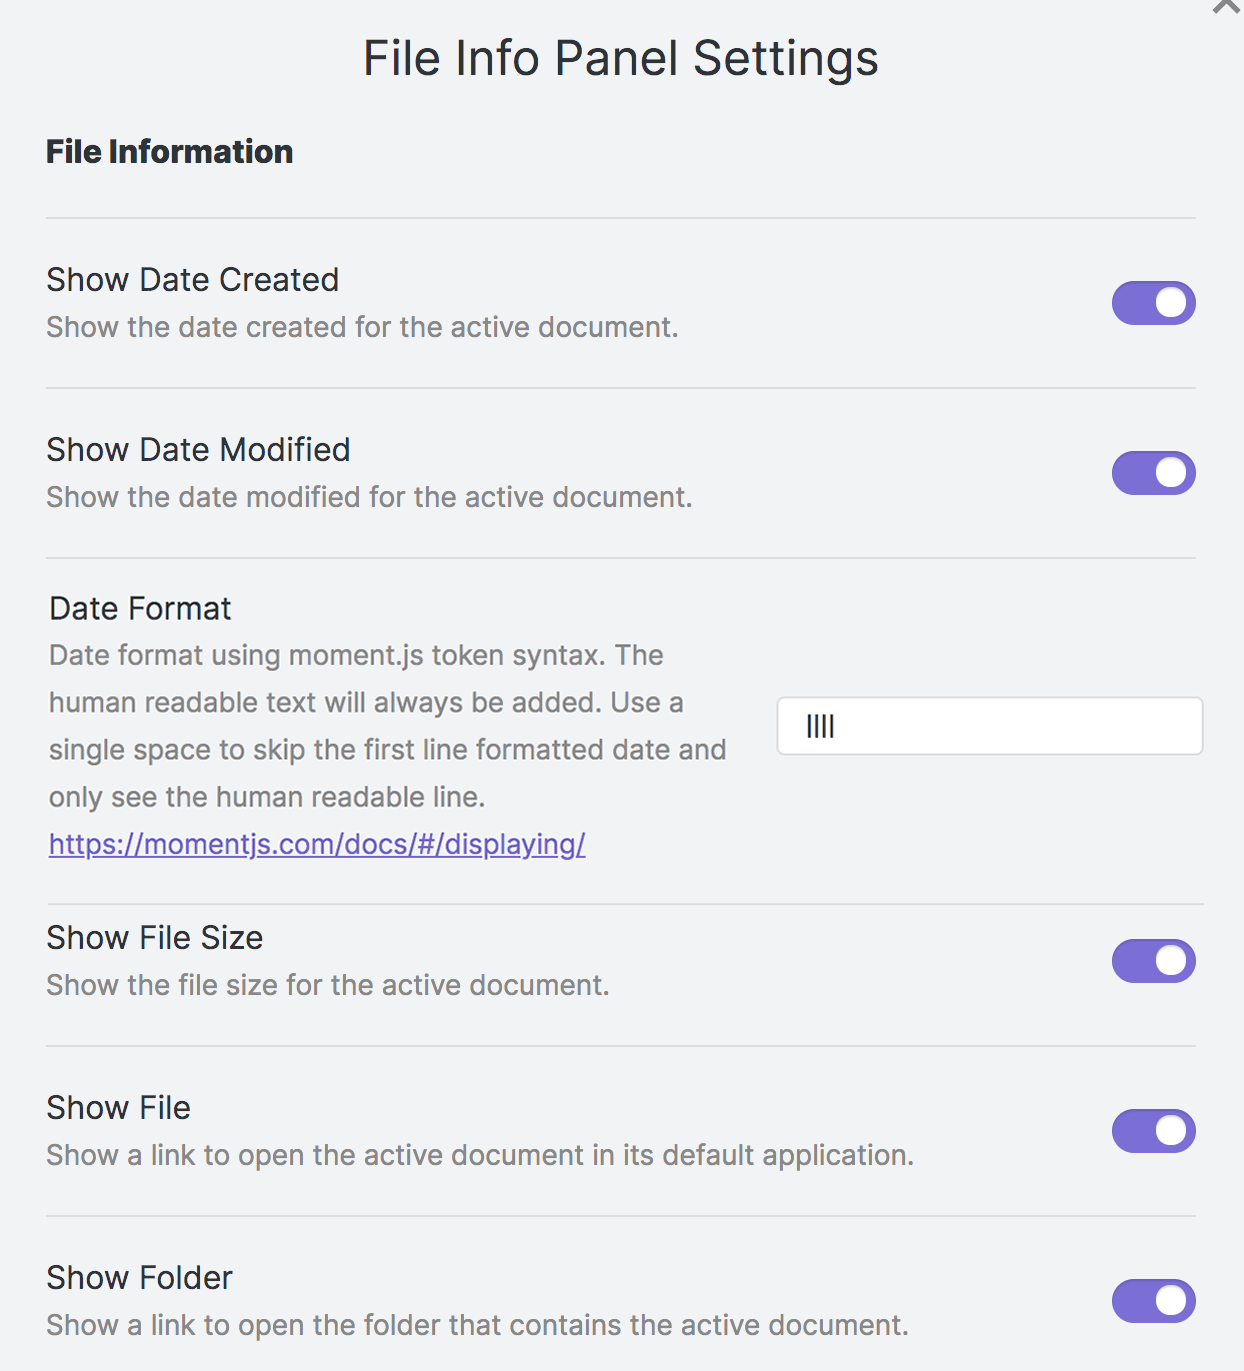
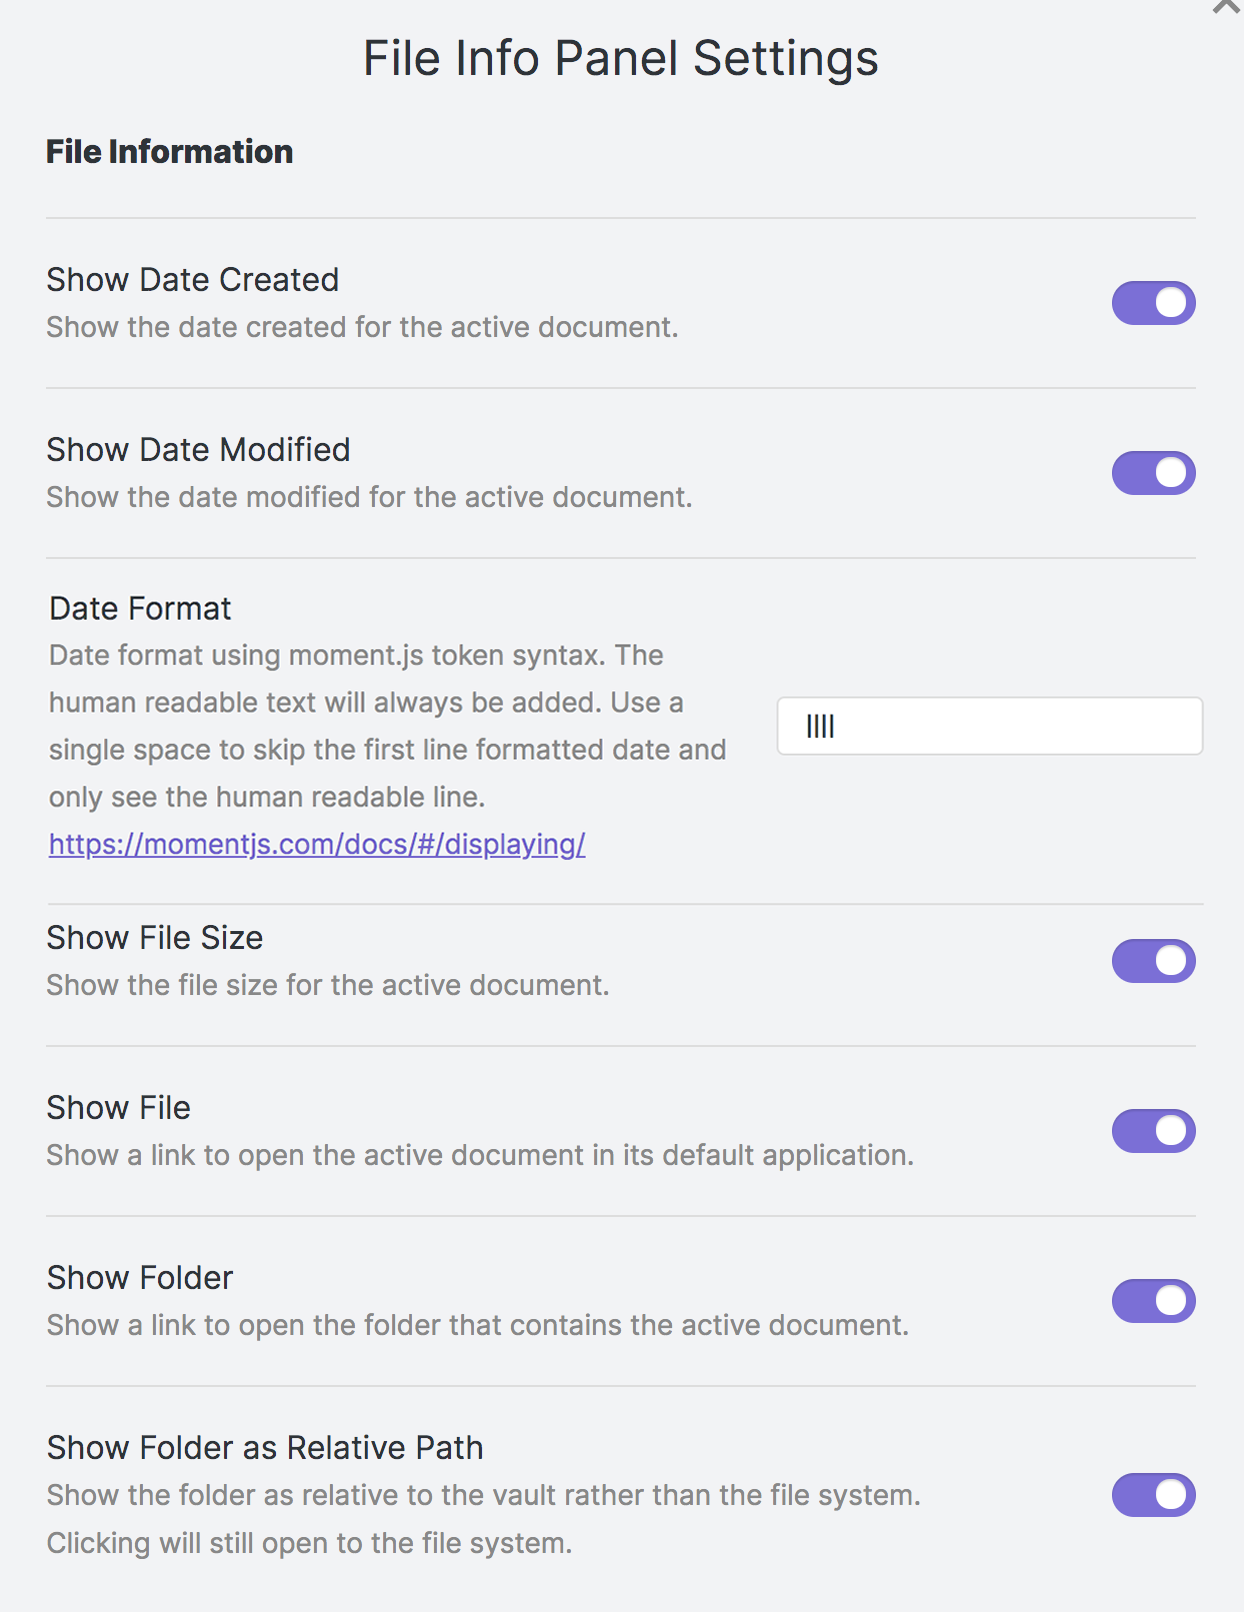
Possible Android Fix, Relative Path Display
Issue #2 (android bug) and the last part of Issue #3 (display relative path option).

diff --git a/main.ts b/main.ts
@@ -7,16 +7,20 @@ Mac OS X 10.12.6 Obsidian  v0.12.19 (T.L. Ford)
 Windows 11, yes, (P.Rose#7066)
 Android, fails (P.Rose#7066)
 
+/* Notes for dev
+https://github.com/TfTHacker/obsidian42-brat/blob/main/help/developers.md
+Versioning: https://semver.org
+*/
+
 /* T. L. Ford */
 /* https://www.Cattail.Nu */
 
 import { App, ItemView, WorkspaceLeaf, MetadataCache, Plugin, MarkdownView, PluginSettingTab, Setting, moment } from 'obsidian';
-
 import { tlfPluginSettingTab } from "./tlfPluginSettingTab";
-
 import { VIEW_TYPE, INTERVAL_MINUTES } from "./tlfConstants";
-
 import { getCharacterCount, getSentenceCount, getWordCount, getParagraphCount, getWordFrequencyArray, cleanComments } from "./stats";
+import type CodeMirror from "codemirror";
+import * as path from 'path';
 
 
 import {
@@ -35,11 +39,11 @@ export default class tlfFileInfo extends Plugin {
 	settings: tlfPluginSettingTab;
 
 	processing = 0;
-	intervalTimer = null;
+	// intervalTimer = null;
 
 	async onload() {
 		await this.loadSettings();
-		// console.clear();
+//		console.clear();
 
 		var a = this.app;
 		var p = this;
@@ -84,20 +88,29 @@ export default class tlfFileInfo extends Plugin {
 			this.requeryStats();
 		}));
 
-/*
-    this.registerCodeMirror((cm: CodeMirror.Editor) => {
-      cm.on("cursorActivity", (cm: CodeMirror.Editor) =>
-        this.barManager.cursorActivity(cm)
-      );
-    });
-*/
+		this.registerCodeMirror((cm: CodeMirror.Editor) => {
+			cm.on("cursorActivity", (cm: CodeMirror.Editor) => {
+				this.requeryStats();
+			//	console.log(cm.getValue());
+			}
+			);
+		});
 
 
 	} // END async onload() {
 
 
 	async requeryStats() {
+
 		var file = this.app.workspace.getActiveFile();
+		var data = "";
+		var isText = 0;
+
+		if ( file && (file.extension === "md" || file.extension === "txt") ) {
+			isText = 1;
+			//data = await file.vault.cachedRead(file);
+			data = await this.app.vault.cachedRead(file);
+		}
 
 		this.app.workspace.getLeavesOfType(VIEW_TYPE).forEach(async (leaf) => {
 			if (leaf.view instanceof tlfItemView) {
@@ -132,12 +145,8 @@ export default class tlfFileInfo extends Plugin {
 					var selectedSentences = 0;
 					var selectedParagraphs = 0;
 					var currentWordFrequency = [];
-					var isText = 0;
 
 					if (file.extension === "md" || file.extension === "txt") {
-						isText = 1;
-						var data = "";
-						data = await file.vault.cachedRead(file);
 
 						if ( data ) {
 							if ( this.settings.showCurrentWords ) { currentWords = getWordCount(data); }
@@ -153,6 +162,7 @@ export default class tlfFileInfo extends Plugin {
 							this.settings.showSelectedSentences ||
 							this.settings.showSelectedParagraphs
 						) {
+/*
 							if ( ! this.intervalTimer ) {
 								this.intervalTimer = window.setInterval(() => {
 									this.requeryStats();
@@ -160,6 +170,7 @@ export default class tlfFileInfo extends Plugin {
 								, INTERVAL_MINUTES * 60 * 1000);
 								this.registerInterval(this.interval);
 							}
+*/
 							var selectedData = "";
 
 							const v = this.app.workspace.getActiveViewOfType(MarkdownView);
@@ -176,14 +187,14 @@ export default class tlfFileInfo extends Plugin {
 									}
 								}
 							}
-						} else {
+						} /* else {
 							// they have changed settings to turn these off
 							// so kill it.
 							if ( this.intervalTimer ) {
 								window.clearInterval(this.intervalTimer);
 								this.intervalTimer = null;
-							}						
-						}
+							}					
+						} */
 						
 
 					}
@@ -202,9 +213,16 @@ export default class tlfFileInfo extends Plugin {
 					leaf.view.strModified = mString;
 					leaf.view.strModifiedFromNow = mDate.fromNow();
 
-					leaf.view.strFile = file.name;
-					leaf.view.strFolder = file.vault.adapter.basePath;
-					leaf.view.strFullPath = file.vault.adapter.basePath + file.vault.adapter.path.sep + file.name;
+					// commented lines work on mac and windows. Trying alternative for android.
+					// leaf.view.strFile = file.name;
+					// leaf.view.strFolder = file.vault.adapter.basePath;
+					// leaf.view.strFullPath = file.vault.adapter.basePath + file.vault.adapter.path.sep + file.name;
+
+					leaf.view.strFile = file.path;
+					leaf.view.strRelativePath = file.parent.path;
+					leaf.view.strFolder = path.join(this.app.vault.adapter.basePath, leaf.view.strRelativePath);
+					leaf.view.strFullPath = path.join(leaf.view.strFolder, leaf.view.strFile);
+
 					leaf.view.strSize = formatBytes(file.stat.size,1);
 
 					leaf.view.numWords = currentWords;
@@ -240,10 +258,12 @@ export default class tlfFileInfo extends Plugin {
 	}
 
 	async deactivateView() {
+/*
 		if ( this.intervalTimer ) {
 			window.clearInterval(this.intervalTimer);
 			this.intervalTimer = null;
 		}
+*/
 		this.app.workspace.detachLeavesOfType(VIEW_TYPE);
 	}
 

diff --git a/tlfPluginSettingTab.ts b/tlfPluginSettingTab.ts
@@ -17,6 +17,7 @@ export interface tlfInterfaceSettings {
 	momentDateFormat: string;
 	showFile: boolean;
 	showFolder: boolean;
+	showRelativeFolder: boolean;
 	showSize: boolean;
 
 	showCurrentWords: boolean;
@@ -46,6 +47,7 @@ export const tlfDefaultSettings = Object.freeze({
 	momentDateFormat: "llll",
 	showFile: true,
 	showFolder: true,
+	showRelativeFolder: false,
 	showSize: true,
 
 	showCurrentWords: true,
@@ -162,6 +164,18 @@ export class tlfPluginSettingTab extends PluginSettingTab {
 					await this.plugin.saveSettings();
 				});
 		});
+
+		new Setting(containerEl)
+			.setName("Show Folder as Relative Path")
+			.setDesc("Show the folder as relative to the vault rather than the file system. Clicking will still open to the file system.")
+			.addToggle((cb: ToggleComponent) => {
+				cb.setValue(this.plugin.settings.showRelativeFolder);
+				cb.onChange(async (value: boolean) => {
+					this.plugin.settings.showRelativeFolder = value;
+					await this.plugin.saveSettings();
+				});
+		});
+
 
 		containerEl.createEl('h4', {text: 'Document Statistics'});
 

diff --git a/tlfItemView.ts b/tlfItemView.ts
@@ -20,6 +20,7 @@ export class tlfItemView extends ItemView {
 	strFolder = "";
 	strSize = "";
 	strFullPath = "";
+	strRelativePath = "";
 
 	numWords = 0;
 	numCharacters = 0;
@@ -100,8 +101,14 @@ export class tlfItemView extends ItemView {
 			const row6 = tlfTable3.createEl("div", { cls: "tlfFileInfoRow" } );
 
 				const cell6 = row6.createEl("div","tlfFileInfoCellButton");
-				const bFolder = cell6.createEl("button", { text: this.strFolder, cls: "tlfFileInfoButton" });
-
+				var bFolder;
+				if ( this.plugin.settings.showRelativeFolder ) {
+					var rPath = this.strRelativePath;
+					if ( rPath.slice(-1) != '/' ) { rPath += '/'; }
+					bFolder = cell6.createEl("button", { text: rPath, cls: "tlfFileInfoButton" });
+				} else {
+					bFolder = cell6.createEl("button", { text: this.strFolder, cls: "tlfFileInfoButton" });
+				}
 			var iv = this;
 
 			bFolder.addEventListener("click", async (e) => {

diff --git a/README.md b/README.md
@@ -33,6 +33,7 @@ The File Info Panel settings allows you to set which file information is display
 - **Show File Size**: Display the human readable file size.
 - **Show File**: Display the file name as a link to open the file in its default application.
 - **Show Folder**: Display the file's folder as a link to open that folder.
+- **Show Folder as Relative Path**: Display the file's vault-relative location rather than the full path.
 - **Show Character Count**: Display a character count for md and txt files.
 - **Show Word Count**: Display a word count for md and txt files.
 - **Show Sentence Count**: Display a sentence count for md and txt files.
@@ -44,6 +45,7 @@ The File Info Panel settings allows you to set which file information is display
 - **Show a Word Frequency Report**: Display a sorted list of unique words and how often these were used.
 - **Filter Word Frequency Report**: Split the report into two lists using the provided regex.
 - **Filter Regex**: Customize which words are split out of the main report. [Regex Assistance](https://cattail.nu/obsidian/filePluginRegexHelper.html)
+- **Show Filtered Words**: Show the words filtered by the above regex.
 
 - **Show Selected Character Count**: Display a character count for selected text.
 - **Show Selected Word Count**: Display a word count for for selected text.
